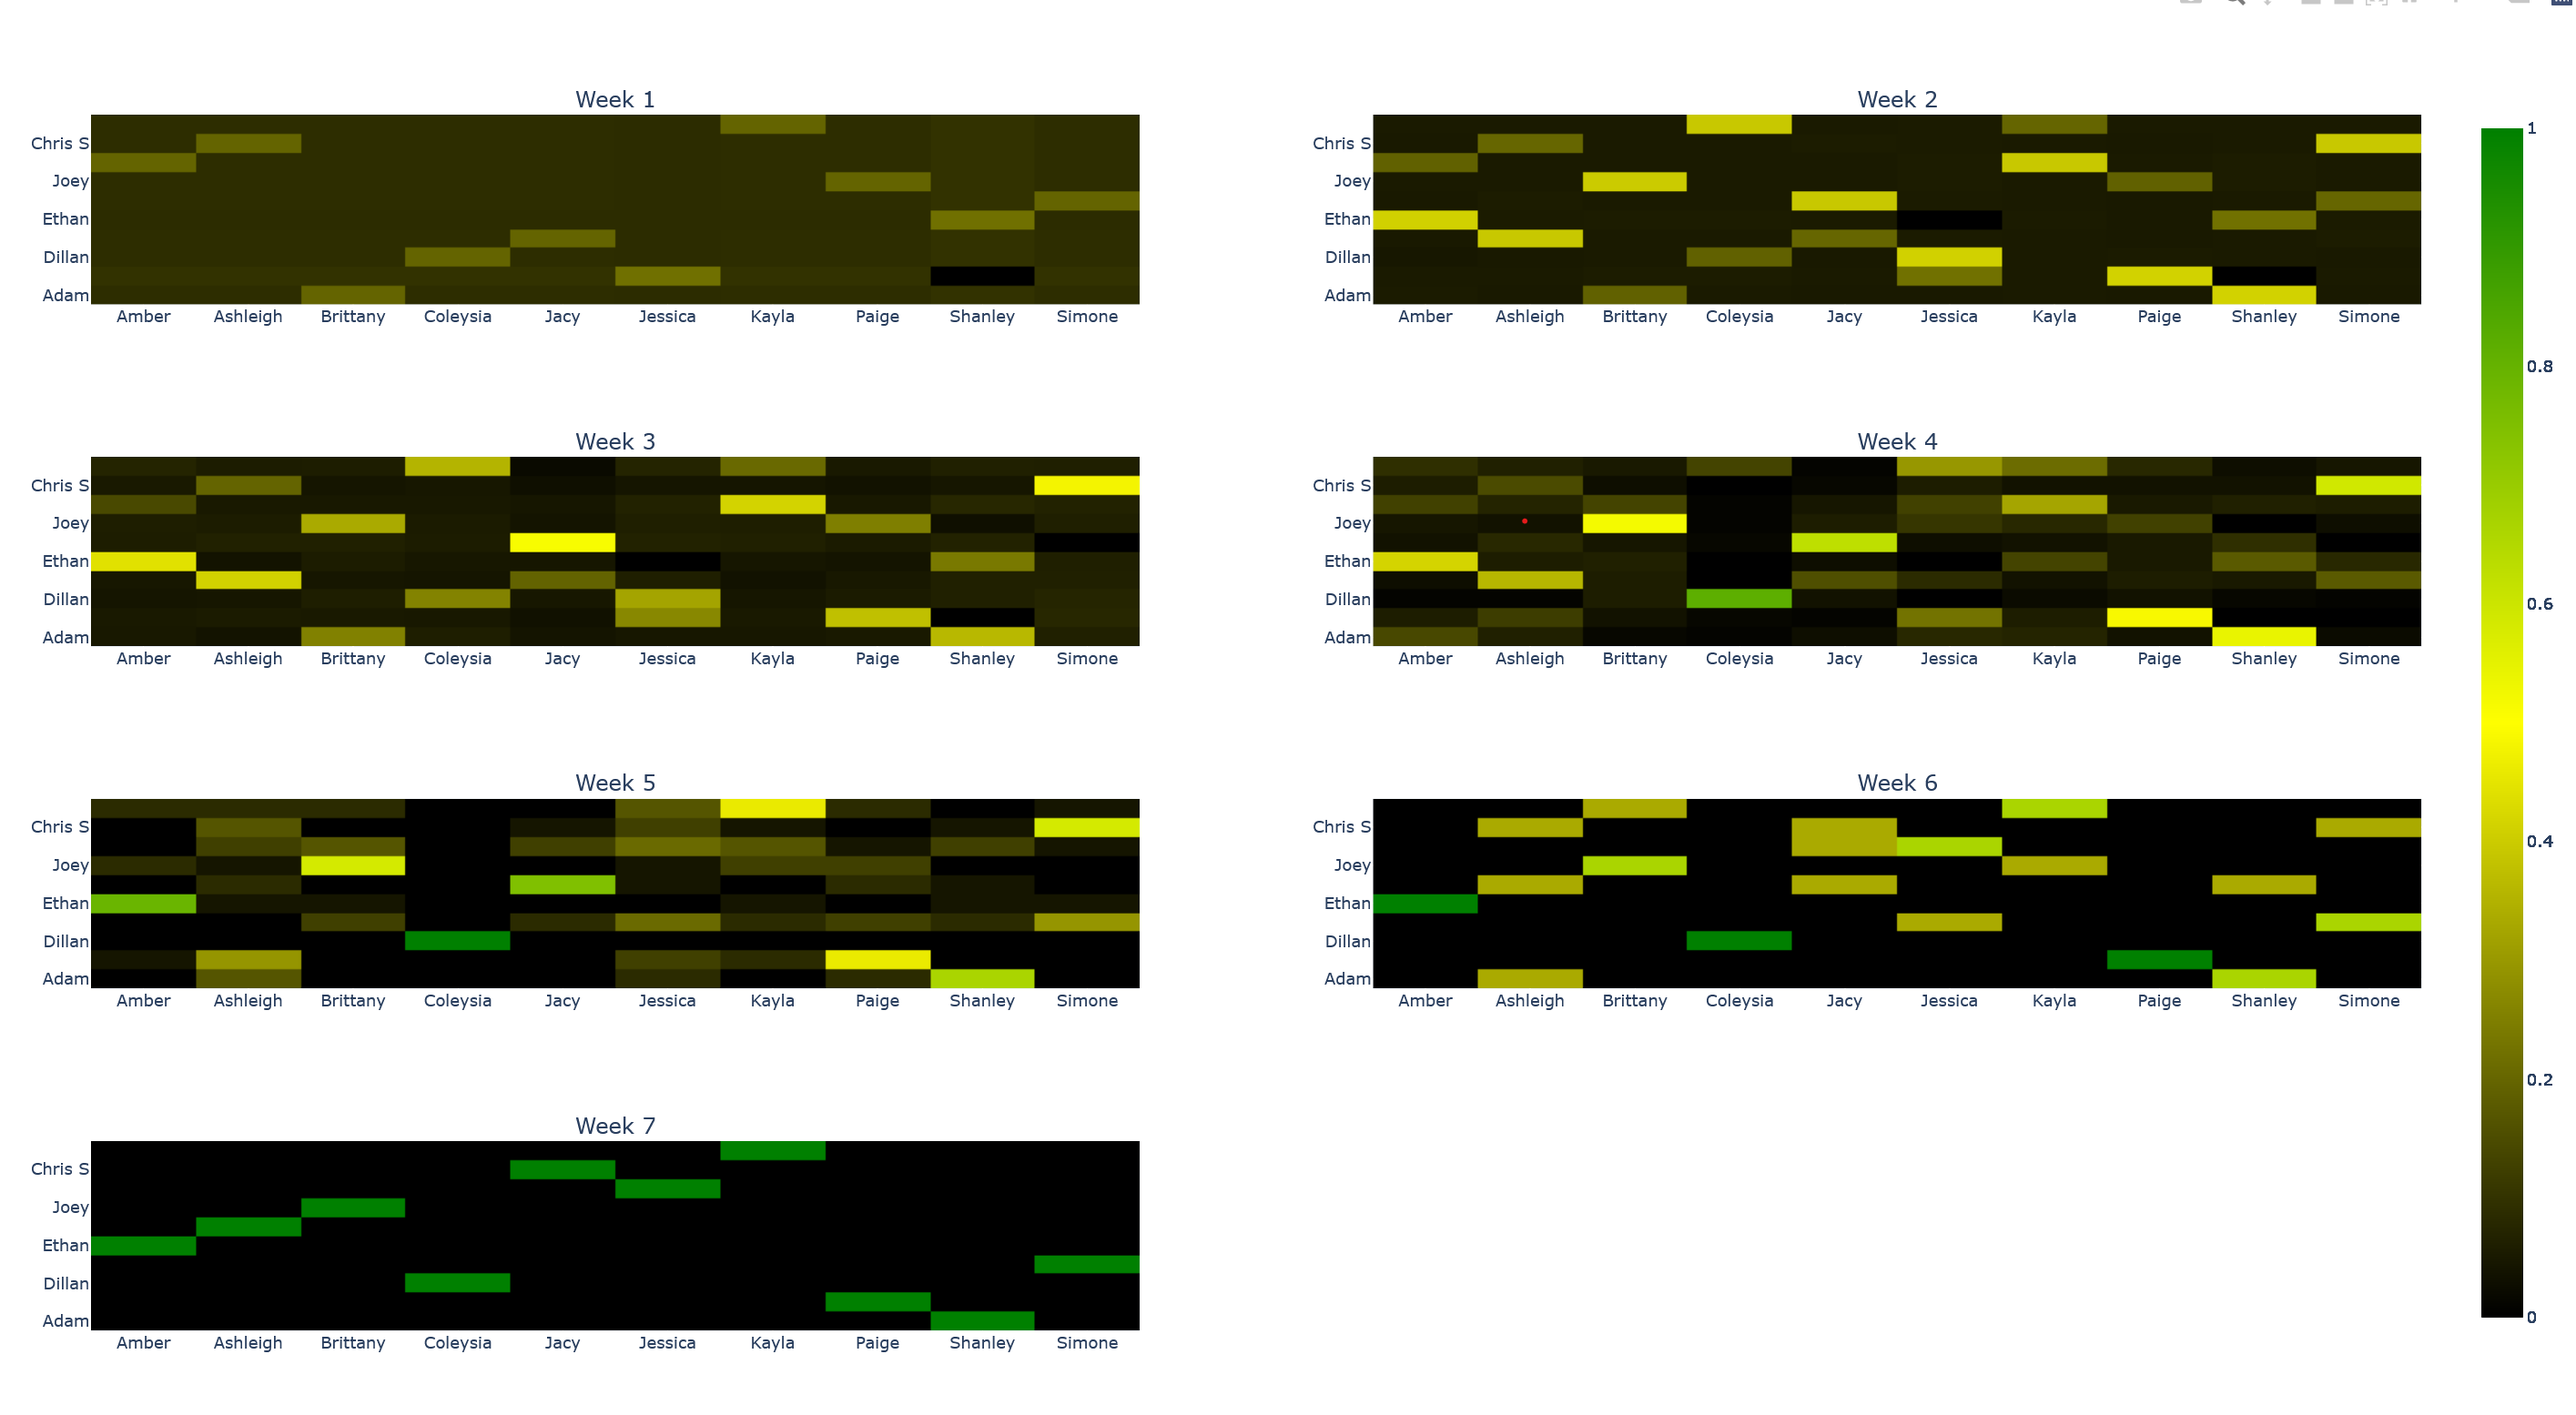
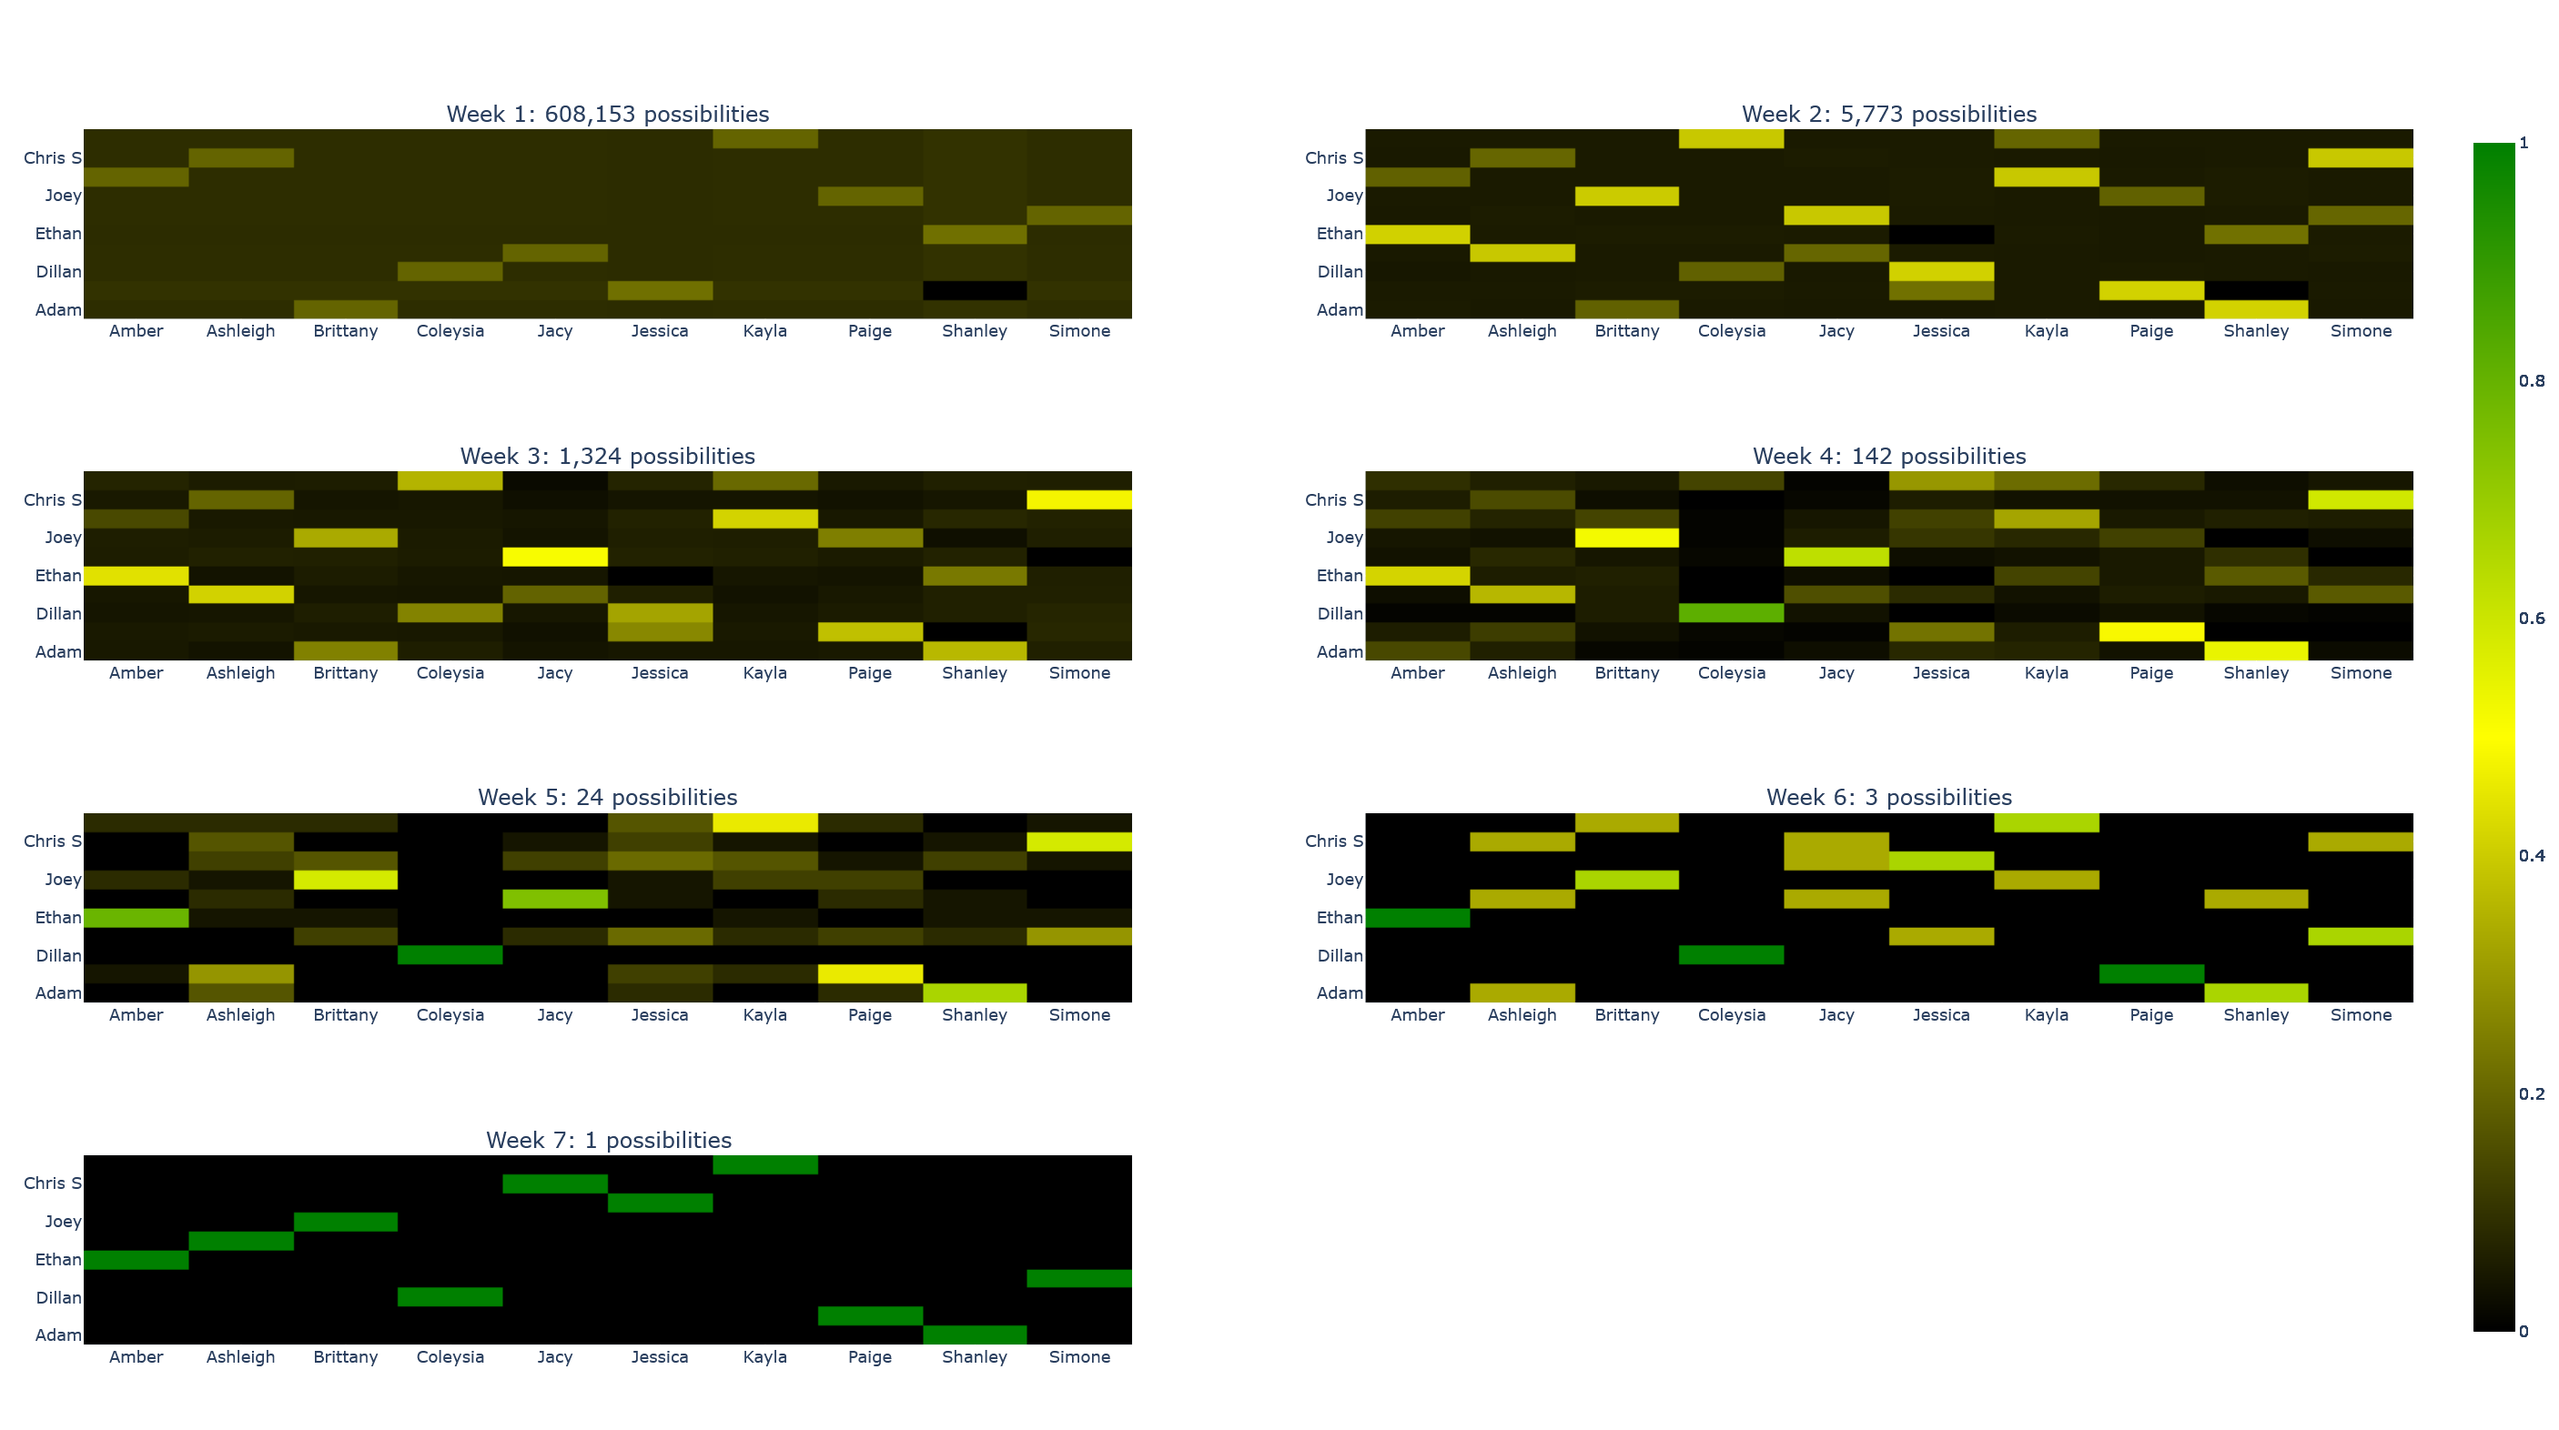
added count of possibilities

diff --git a/main.py b/main.py
@@ -29,9 +29,8 @@ def heatmap_for_week(season, outcome):
     return heatmap
 
 def main():
-
     counter = 0
-    season = seasons.get_season4()
+    season = seasons.get_season1()
     limit = 10000000
     output = simulation.simulate(season, limit)
 
@@ -40,14 +39,16 @@ def main():
     fig = make_subplots(
         rows=rows, 
         cols=columns,
-        subplot_titles=[f'Week {w.id}' for w in season.weeks]
+        subplot_titles=[
+            f'Week {week.id}: {outcome.total_counts:,} possibilities' 
+            for week, outcome in output.weeks.items()
+        ]
     )
 
     for week, outcome in output.weeks.items():
         heatmap = heatmap_for_week(season, outcome)
         row = counter // columns + 1
         col = counter % columns + 1
-        print(row, col)
         fig.add_trace(heatmap, row=row, col=col)
         counter += 1
 
